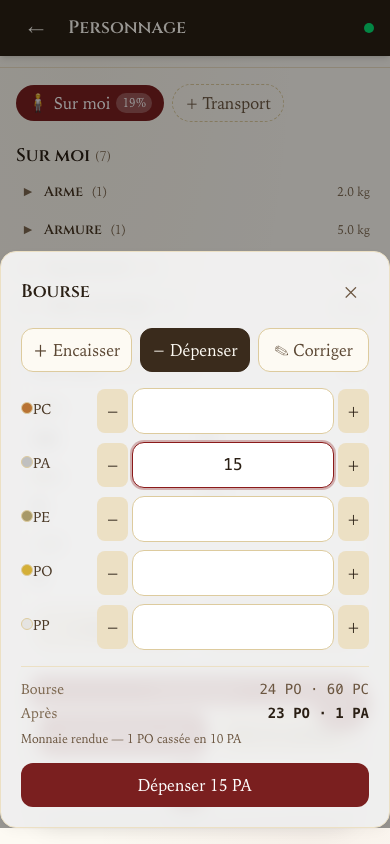
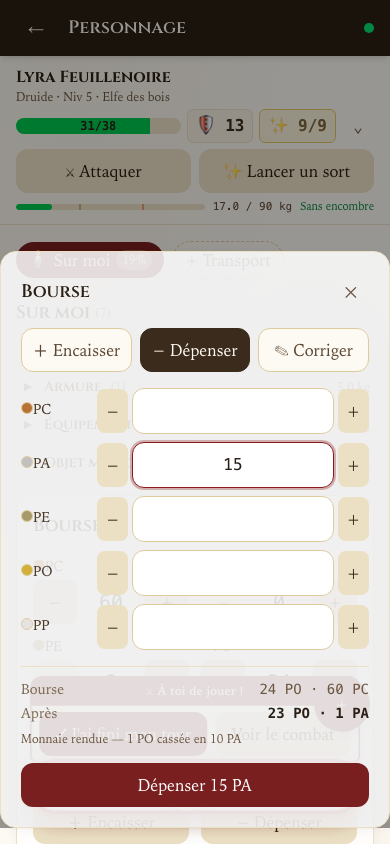
feat(bourse): boutons − / + de chaque côté des figures — ajuster une pièce sans ouvrir le modal (#109)
* feat(bourse): boutons − / + de chaque côté des figures — ajuster une pièce sans ouvrir le modal

Moins à gauche, plus à droite (#105) : le stepper du modal posé au repos —
même contrôle, même look (rounded-lg parchment-200, glyphe text-lg). Un tap
ajuste la dénomination d'une pièce : chiffre optimiste, puis le même PATCH
plein-purse que le modal ; échec → toast et retour à la vérité serveur.

- w-11 h-11 sous le pouce sur la grille 2 colonnes (cible 44 px du produit),
  md:w-9 md:h-9 dès la rangée de 5 — la figure garde sa place
- grille éditrice grid-cols-2 md:grid-cols-5 ; spectateur inchangé
  (grid-cols-2 sm:grid-cols-5, ni boutons ni portes)
- active:scale-95 comme btn-secondary, − verrouillé à zéro
  (disabled:opacity-50), focus visible via la règle globale
- chiffre ≥ 1000 en text-lg pour garder son air entre les steppers
- role="img" tombe des tuiles — des boutons dedans seraient invisibles
  aux lecteurs d'écran ; libellés rangee.augmenter/diminuer existants

* chore(screenshots): régénération FR après les steppers de bourse + sonde de port double pile

La sonde isFree épinglait 127.0.0.1 : un serveur oublié sur « *:port »
(stack --keep de deux jours) passait pour libre, le check de santé lui
parlait LUI, et le semis 409 sur « mdj » — captures mort-nées, sortie 0
quand même. La sonde écoute désormais sans host, comme l'API lancée :
le port occupé est détecté, freePort choisit un port éphémère.

30 captures FR régénérées (07 et 16 stables à l'octet près) ; 21/22
[…]

Changed region(s): [[0.0308, 0.0616, 0.9846, 0.3081], [0.0615, 0.955, 0.9231, 1.0]]

diff --git a/apps/web/src/pages/character/CoinPurse.tsx b/apps/web/src/pages/character/CoinPurse.tsx
@@ -24,13 +24,15 @@ export type CoinMode = 'gain' | 'spend' | 'set';
 
 interface CoinPurseProps {
   coins: CoinsState;
-  /** Viewer mode: display amounts without the transaction doors. */
+  /** Viewer mode: display amounts without the transaction doors or steppers. */
   readOnly?: boolean;
   /** Opens the coin modal with the given verb preselected. */
   onOpenExchange: (mode: CoinMode) => void;
+  /** Quick ±1 on one denomination — minus on the left, plus on the right. */
+  onAdjust: (field: keyof CoinsState, delta: 1 | -1) => void;
 }
 
-export function CoinPurse({ coins, readOnly = false, onOpenExchange }: CoinPurseProps) {
+export function CoinPurse({ coins, readOnly = false, onOpenExchange, onAdjust }: CoinPurseProps) {
   const { t } = useTranslation();
   const [expanded, setExpanded] = useState(false);
   const totalCp =
@@ -65,16 +67,21 @@ export function CoinPurse({ coins, readOnly = false, onOpenExchange }: CoinPurse
       <div className={`expand-grid ${expanded ? '' : 'is-collapsed'}`}>
         <div className="expand-inner">
           <div className="mt-4">
-            {/* Figures at rest — measured values in mono, like every ledger line */}
-            <div className="grid grid-cols-2 sm:grid-cols-5 gap-3">
+            {/* Figures at rest — measured values in mono, like every ledger line.
+                Quick steppers flank each figure (− left, + right): the modal's
+                steppers parked at rest — 44 px under the thumb on the two-column
+                grid, 36 px from md where the five-column row needs the figure's
+                room back (viewers keep the incumbent grid: no buttons, no squeeze).
+                Figures ≥ 1000 drop a size — 4 digits must keep their clearance
+                from the steppers on the five-column row. role="img" is dropped
+                once buttons live inside, or AT would hide them. */}
+            <div
+              className={`grid gap-3 ${
+                readOnly ? 'grid-cols-2 sm:grid-cols-5' : 'grid-cols-2 md:grid-cols-5'
+              }`}
+            >
               {COIN_FIELDS.map(({ key, unit, color }) => (
-                <div
-                  key={key}
-                  role="img"
-                  aria-label={`${t('bourse.quantite.de.coinlabel.unit', {
-                    coinLabel_unit: coinLabel(unit),
-                  })} : ${coins[key]}`}
-                >
+                <div key={key}>
                   <span className="label flex items-center gap-1.5">
                     <span
                       className="inline-block w-3 h-3 rounded-full border border-parchment-300 shrink-0"
@@ -83,7 +90,36 @@ export function CoinPurse({ coins, readOnly = false, onOpenExchange }: CoinPurse
                     />
                     {coinLabel(unit)}
                   </span>
-                  <div className="mt-1 font-mono text-xl text-ink-900 leading-8">{coins[key]}</div>
+                  <div className="mt-1 flex items-center gap-1">
+                    {!readOnly && (
+                      <button
+                        type="button"
+                        onClick={() => onAdjust(key, -1)}
+                        disabled={coins[key] === 0}
+                        className="w-11 h-11 md:w-9 md:h-9 rounded-lg bg-parchment-200 hover:bg-parchment-300 active:scale-95 disabled:opacity-50 disabled:cursor-not-allowed text-lg font-medium flex items-center justify-center transition-all shrink-0"
+                        aria-label={t('rangee.diminuer.itemname', { itemName: coinLabel(unit) })}
+                      >
+                        −
+                      </button>
+                    )}
+                    <div
+                      className={`font-mono text-ink-900 leading-8 min-w-0 ${
+                        coins[key] >= 1000 ? 'text-lg' : 'text-xl'
+                      } ${readOnly ? '' : 'flex-1 text-center'}`}
+                    >
+                      {coins[key]}
+                    </div>
+                    {!readOnly && (
+                      <button
+                        type="button"
+                        onClick={() => onAdjust(key, 1)}
+                        className="w-11 h-11 md:w-9 md:h-9 rounded-lg bg-parchment-200 hover:bg-parchment-300 active:scale-95 text-lg font-medium flex items-center justify-center transition-all shrink-0"
+                        aria-label={t('rangee.augmenter.itemname', { itemName: coinLabel(unit) })}
+                      >
+                        +
+                      </button>
+                    )}
+                  </div>
                 </div>
               ))}
             </div>

diff --git a/apps/web/src/pages/CharacterInventoryPage.tsx b/apps/web/src/pages/CharacterInventoryPage.tsx
@@ -671,21 +671,45 @@ export default function CharacterInventoryPage() {
     });
   };
 
-  // Coin purse: a confirmed transaction lands as one full-purse PATCH — the
-  // change-making already ran client-side in the shared engine
-  const savePurse = useCallback(
-    async (next: CoinsState) => {
+  // Coin purse: every write lands as one full-purse PATCH — the modal's
+  // change-making already ran client-side in the shared engine, and the
+  // quick steppers are a plain ±1 on one denomination.
+  const persistCoins = useCallback(
+    async (next: CoinsState): Promise<boolean> => {
       markLocalMutation();
       try {
         await saveCoinsMutation.mutateAsync(next);
         await refreshInventory();
-        pushToast(t('inv.bourse.mise.a.jour'));
-        setCoinExchange(null);
+        return true;
       } catch (err) {
         pushToast(apiError(err, t('inv.erreur.de.sauvegarde')), 'error');
+        await refreshInventory(); // roll an optimistic figure back to server truth
+        return false;
       }
     },
     [pushToast, refreshInventory, markLocalMutation, saveCoinsMutation, t],
+  );
+
+  const savePurse = useCallback(
+    async (next: CoinsState) => {
+      if (await persistCoins(next)) {
+        pushToast(t('inv.bourse.mise.a.jour'));
+        setCoinExchange(null);
+      }
+    },
+    [persistCoins, pushToast, t],
+  );
+
+  // Quick ±1 on a denomination: the figure moves optimistically so the next
+  // tap reads the adjusted purse, then the same PATCH as the modal goes out.
+  const adjustCoin = useCallback(
+    (field: keyof CoinsState, delta: 1 | -1) => {
+      const next: CoinsState = { ...coins, [field]: Math.max(0, coins[field] + delta) };
+      if (next[field] === coins[field]) return; // minus on an empty pocket
+      setCoins(next);
+      void persistCoins(next);
+    },
+    [coins, persistCoins],
   );
 
   const dismissError = () => setDismissedError(error);
@@ -1413,7 +1437,12 @@ export default function CharacterInventoryPage() {
 
             {/* ---------- Coin purse (figures at rest, transactions via the modal) ---------- */}
             <section className="card p-4 sm:p-5">
-              <CoinPurse coins={coins} readOnly={!canEdit} onOpenExchange={setCoinExchange} />
+              <CoinPurse
+                coins={coins}
+                readOnly={!canEdit}
+                onOpenExchange={setCoinExchange}
+                onAdjust={adjustCoin}
+              />
             </section>
           </>
         )}

diff --git a/e2e/inventory.spec.ts b/e2e/inventory.spec.ts
@@ -86,6 +86,24 @@ playerTest.describe('Inventaire (guerrier)', () => {
     await expect(page.getByRole('button', { name: /Bourse \(31 PO/ })).toBeVisible();
   });
 
+  playerTest('les boutons ± de la bourse ajustent une pièce à la fois', async ({ page }) => {
+    // Départ : 31 PO (remis par le test précédent). Moins à gauche, plus à
+    // droite — un ajustement direct d'une pièce, sans passer par le modal.
+    const bourseCard = page.locator('[data-tuto="inv-bourse"]');
+    await bourseCard.getByRole('button', { name: /Bourse \(/ }).click();
+
+    // Poche vide : le moins de PC (0 au seed) est verrouillé.
+    await expect(bourseCard.getByRole('button', { name: 'Diminuer PC' })).toBeDisabled();
+
+    // ＋ PO : 31 → 32, le chiffre suit sans recharger.
+    await bourseCard.getByRole('button', { name: 'Augmenter PO' }).click();
+    await expect(page.getByRole('button', { name: /Bourse \(32 PO/ })).toBeVisible();
+
+    // − PO : retour à 31 pour les specs suivantes.
+    await bourseCard.getByRole('button', { name: 'Diminuer PO' }).click();
+    await expect(page.getByRole('button', { name: /Bourse \(31 PO/ })).toBeVisible();
+  });
+
   playerTest('une arme déploie ses dégâts calculés (FOR 16 → 1d8+3)', async ({ page }) => {
     await expandCategory(page, 'Arme');
     const rowButton = page.getByRole('button', { name: 'Épée longue, 1 exemplaire' });

diff --git a/scripts/generate-screenshots.ts b/scripts/generate-screenshots.ts
@@ -174,7 +174,10 @@ function isFree(port: number): Promise<boolean> {
     const srv = net.createServer();
     srv.once('error', () => resolve(false));
     srv.once('listening', () => srv.close(() => resolve(true)));
-    srv.listen(port, '127.0.0.1');
+    // Sans host : écoute double pile, comme l'API qu'on va lancer. Une sonde
+    // épinglée à 127.0.0.1 laissait passer un serveur oublié sur « *:port » —
+    // le check de santé lui parlait LUI, et le semis 409 sur son utilisateur.
+    srv.listen(port);
   });
 }
 
@@ -186,7 +189,7 @@ async function freePort(preferred: number): Promise<number> {
       const { port } = srv.address() as net.AddressInfo;
       srv.close(() => resolve(port));
     });
-    srv.listen(0, '127.0.0.1');
+    srv.listen(0);
   });
 }
 

diff --git a/apps/web/DESIGN.md b/apps/web/DESIGN.md
@@ -433,7 +433,8 @@ la chaîne décimale).
 | Dispositif | Recette |
 |---|---|
 | En-tête de carte | bouton « Bourse (31 PO 5 PC) » — total PO + reliquat PC, inchangé depuis toujours (e2e y ancre l'attente) |
-| Figures au repos | déplié : 5 tuiles `grid-cols-2 sm:grid-cols-5` — pastille de métal colorée (cuivre #b87333, argent #c0c0c0, électrum #a89968, or #d4af37, platine #e5e4e2) + libellé `.label`, valeur en `font-mono text-xl` encre ; spectateur (lecture seule) : figures seules, aucune porte |
+| Figures au repos | déplié : 5 tuiles — pastille de métal colorée (cuivre #b87333, argent #c0c0c0, électrum #a89968, or #d4af37, platine #e5e4e2) + libellé `.label`, valeur en `font-mono text-xl` encre ; spectateur (lecture seule) : figures seules, `grid-cols-2 sm:grid-cols-5`, aucune porte ni stepper |
+| Les steppers rapides | − à gauche, + à droite de chaque figure (#105) — le stepper du modal posé au repos : `rounded-lg bg-parchment-200`, glyphe `text-lg`, `w-11 h-11` au pouce sur la grille 2 colonnes (`grid-cols-2 md:grid-cols-5`), `md:w-9 md:h-9` dès la rangée de 5 (la figure garde sa place) ; `active:scale-95` comme `btn-secondary`, le − se verrouille à zéro (`disabled:opacity-50`) ; tap = ±1 pièce, chiffre optimiste puis le même PATCH plein-purse que le modal ; chiffre ≥ 1000 en `text-lg` pour garder son air entre les steppers |
 | Les portes | deux `btn-secondary` « ＋ Encaisser » / « − Dépenser » — le verbe est présélectionné à l'ouverture du modal |
 | Le modal du changeur | `Modal` standard (feuille mobile) : fieldset de 3 chips `aria-pressed` (＋ Encaisser / − Dépenser / ✎ Corriger, active = `bg-ink-800` remplie — l'encre, le sang est pris), 5 lignes pastille + stepper − [`NumberField` mono] + (cibles 44 px) ; chaque champ porte `emptyAsZero` — **vider une dénomination la compte à 0** (le grand livre et le CTA suivent à la frappe), le « rollback au blur » du `NumberField` est faite pour les champs auto-sauvegardés, pas pour des deltas |
 | Le grand livre | sous filet `parchment-200`, `aria-live="polite"` : « Bourse » (valeur réelle, encre claire) → « Après » (`font-mono font-semibold`) — **la bourse réelle détenue, jamais une conversion canonique** (32 PO · 5 PA, pas « 3 PP ») ; « Il manque X » (PO→PA→PC, jamais PE/PP) verrouille le CTA sans crier ; « Monnaie rendue — 1 PO cassée en 10 PA » en `text-xs ink-500`, encre imprimée |
